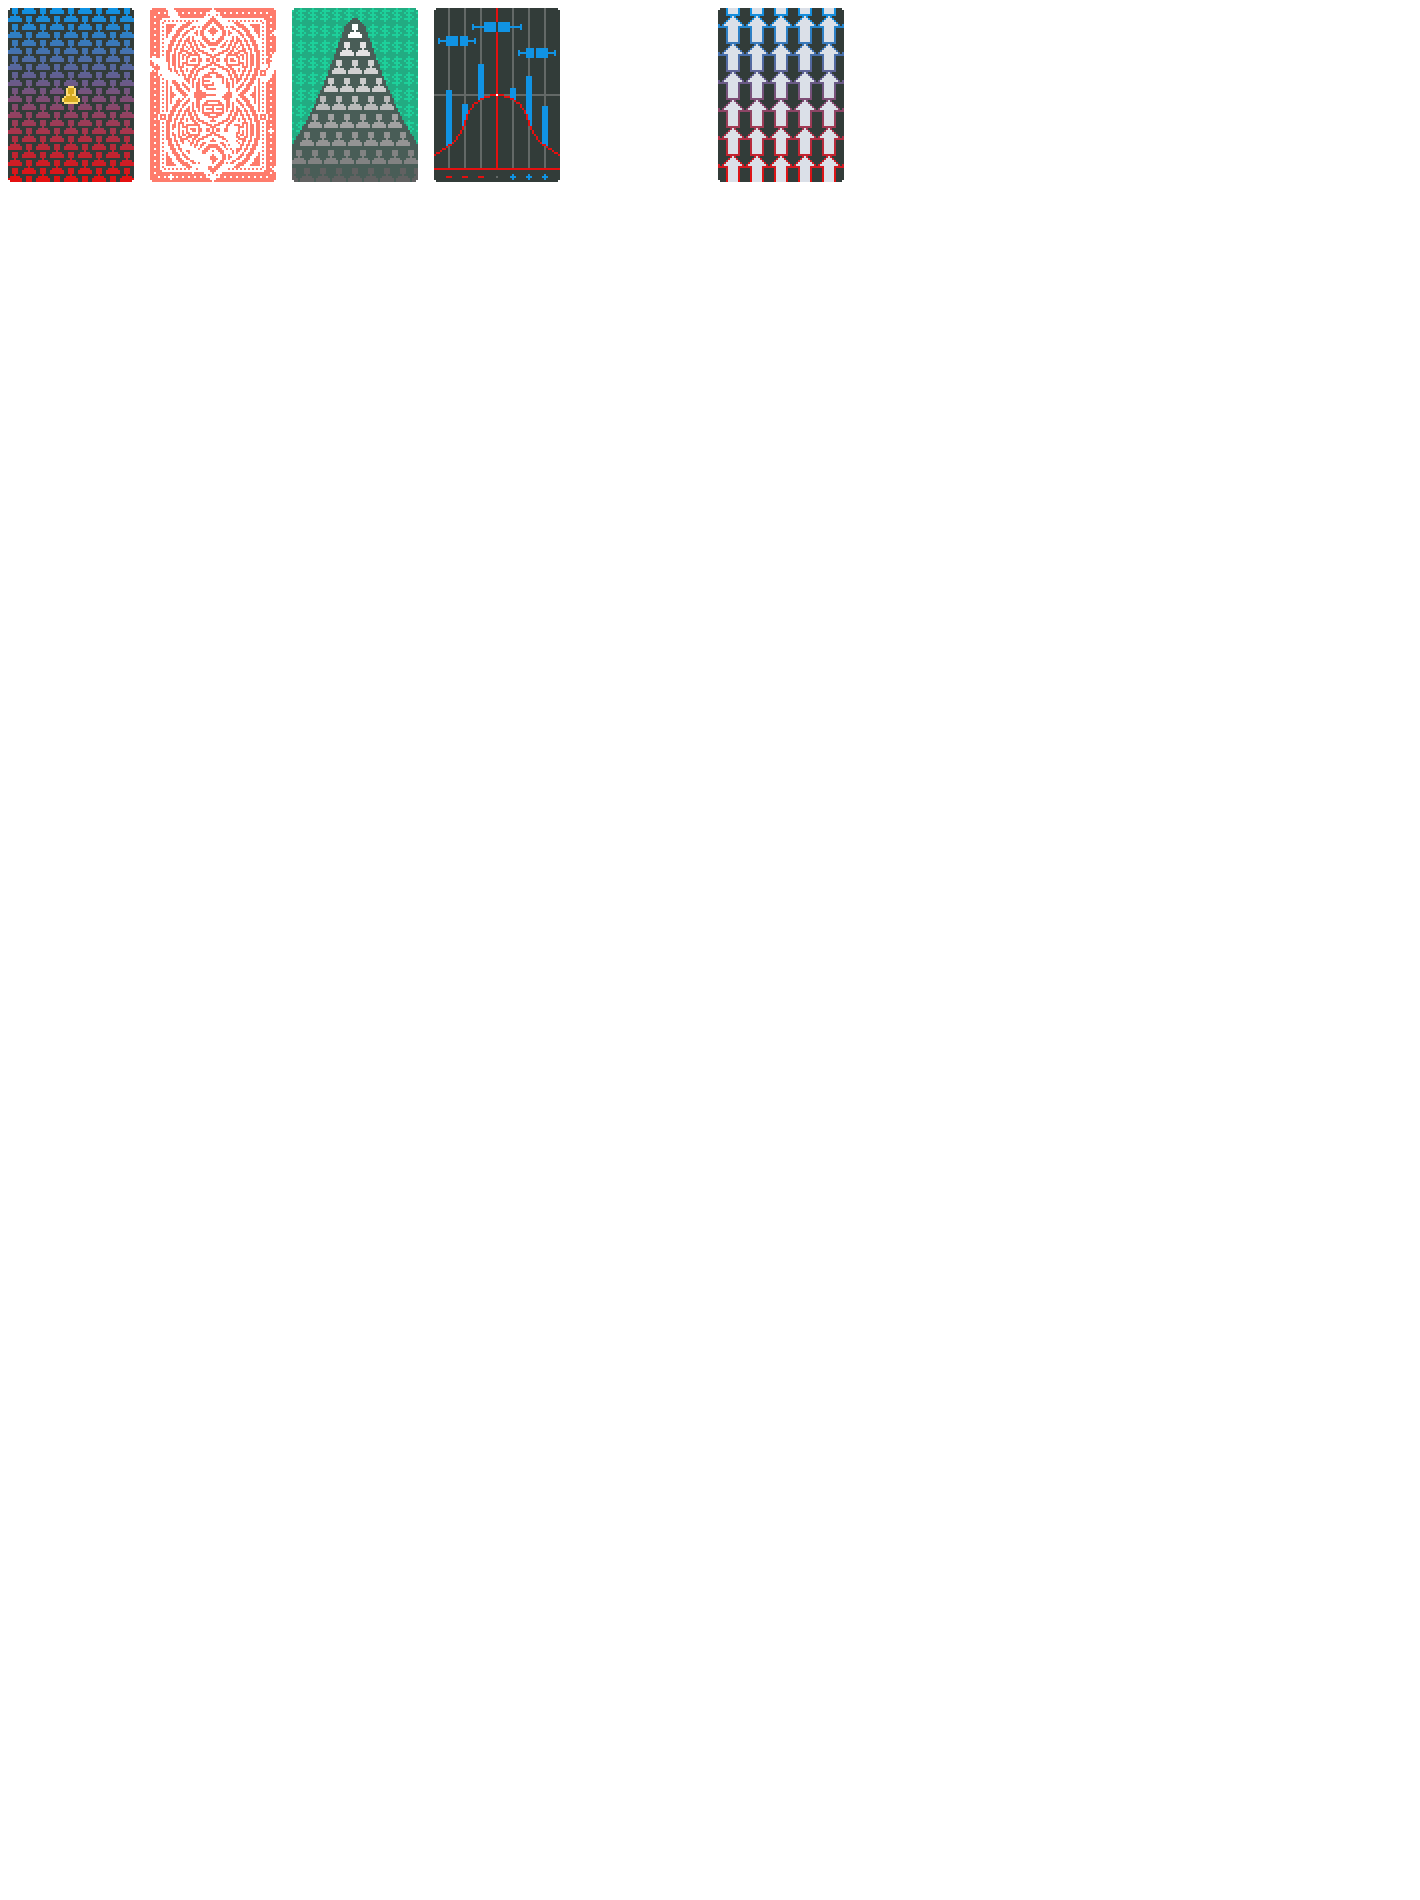
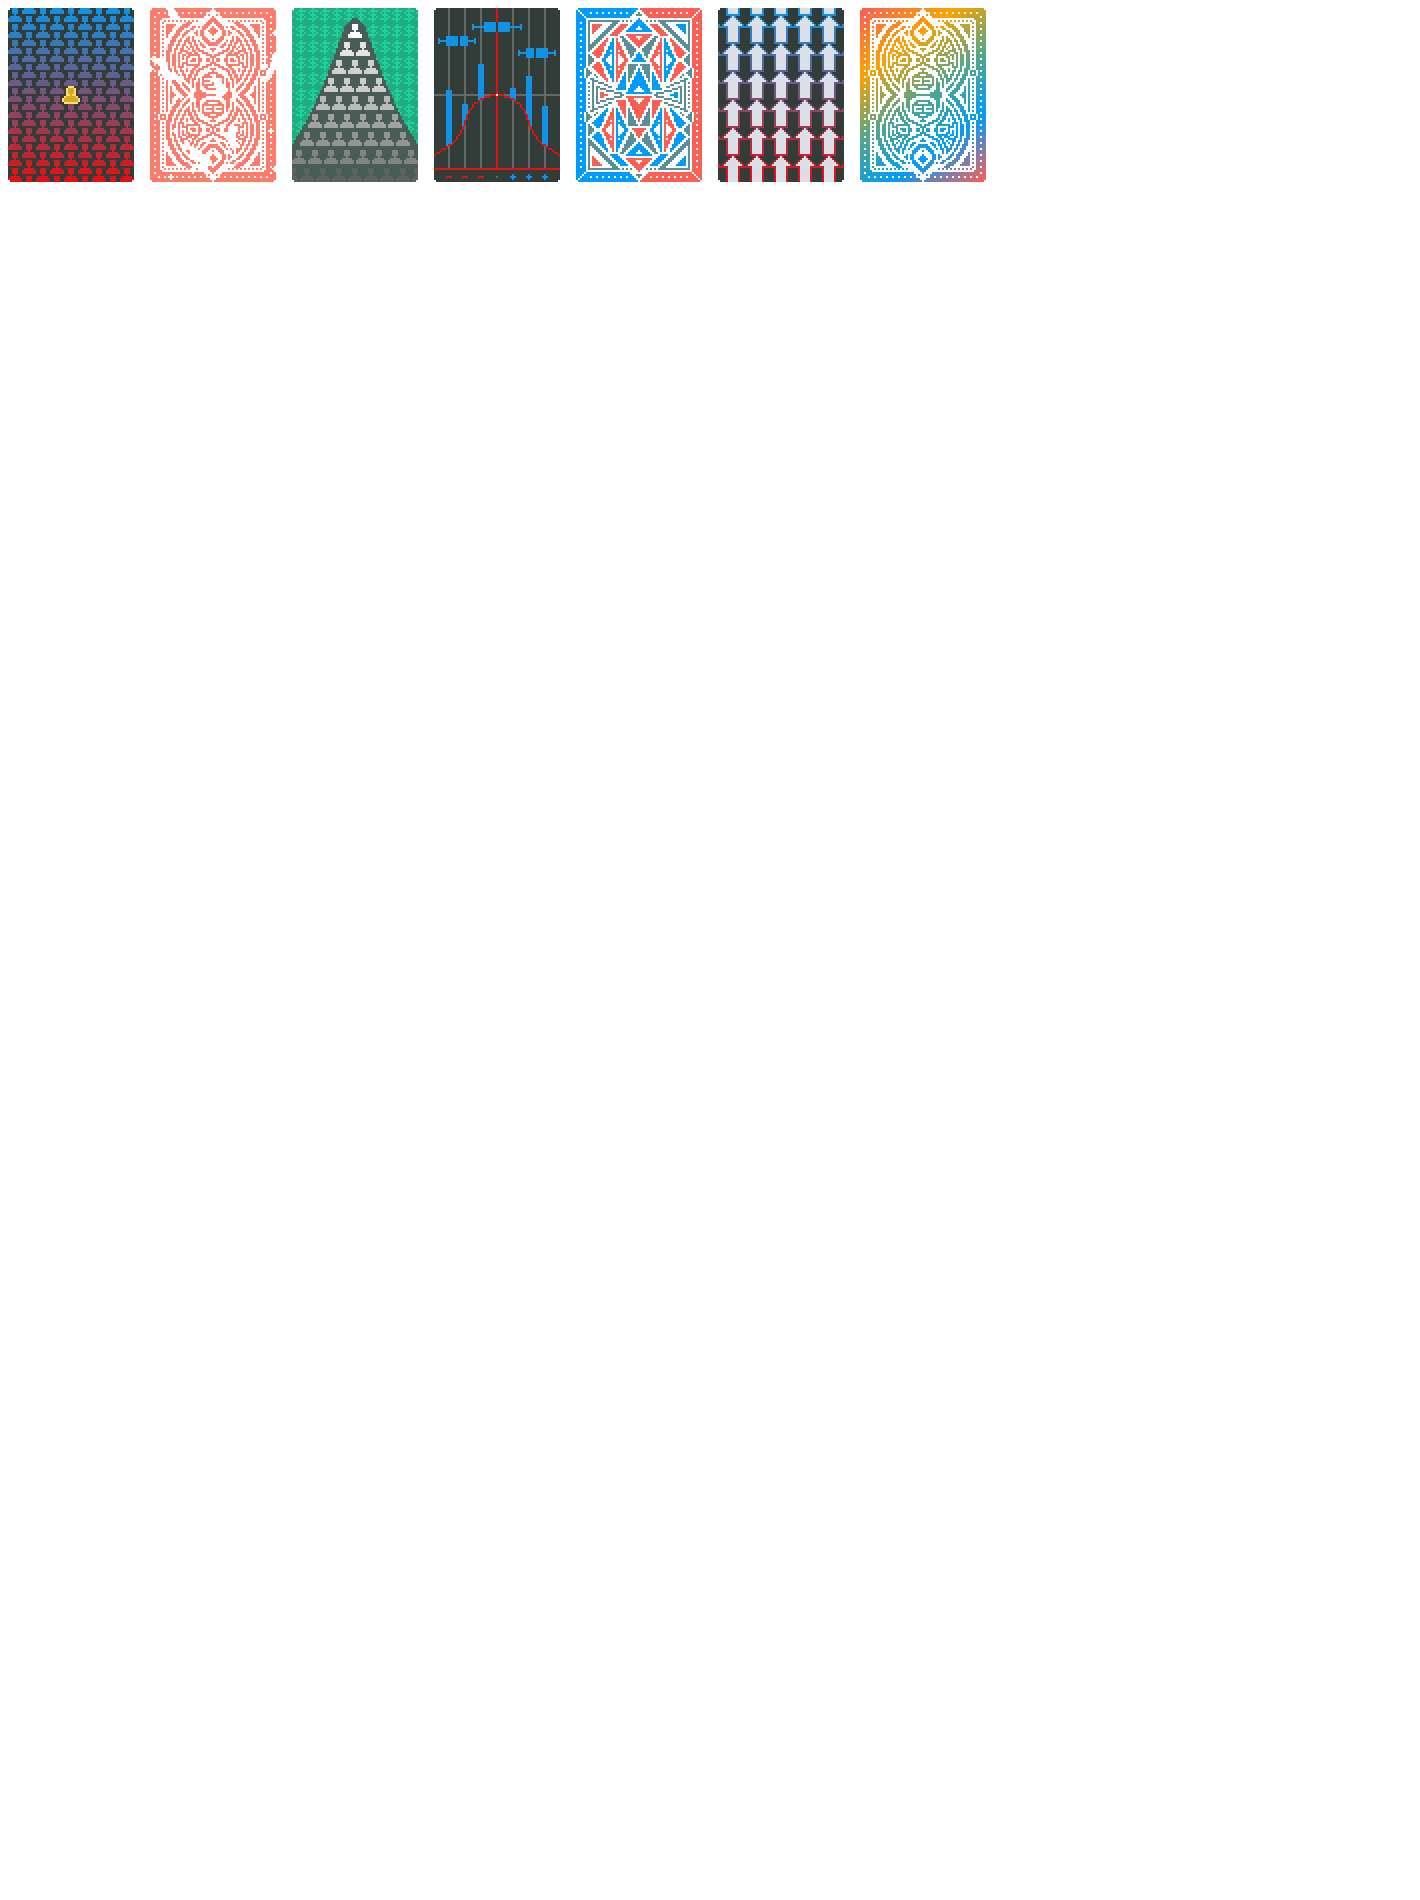
Add Triangle and Rainbow deck

Changed region(s): [[0.5887, 0.0, 0.7127, 0.0932], [0.4028, 0.0, 0.4958, 0.0932]]

diff --git a/web/addjokers.js b/web/addjokers.js
@@ -787,16 +787,6 @@ let card_modifications = [
 
 let decks = [
   {
-    name: "Ponzi Deck",
-    text: [
-      "Start with {C:attention}5{} copies",
-      "of {C:joker,T:j_credit_card}Credit Card",
-      "and {C:red}-$20",
-    ],
-    image_url: "img/b/ponzi.png",
-    rarity: "Deck"
-  },
-  {
     name: "Average Deck",
     text: [
       "No {C:blue}Common{} or {C:red}Rare",
@@ -819,6 +809,32 @@ let decks = [
       "Start run with a copy of {C:purple,E:1,T:c_black_hole}Black Hole{}"
     ],
     image_url: "img/b/gravity.png",
+    rarity: "Deck"
+  },
+  {
+    name: "Triangle Deck",
+    text: [
+      "Missing a {C:attention}Suit{}"
+    ],
+    image_url: "img/b/triangle.png",
+    rarity: "Deck"
+  },
+  {
+    name: "Rainbow Deck",
+    text: [
+      "Also has a {C:attention,T:e_wild}Wild{} card of each rank"
+    ],
+    image_url: "img/b/rainbow.png",
+    rarity: "Deck"
+  },
+  {
+    name: "Ponzi Deck",
+    text: [
+      "Start with {C:attention}5{} copies",
+      "of {C:joker,T:j_credit_card}Credit Card",
+      "and {C:red}-$20",
+    ],
+    image_url: "img/b/ponzi.png",
     rarity: "Deck"
   },
 ]
